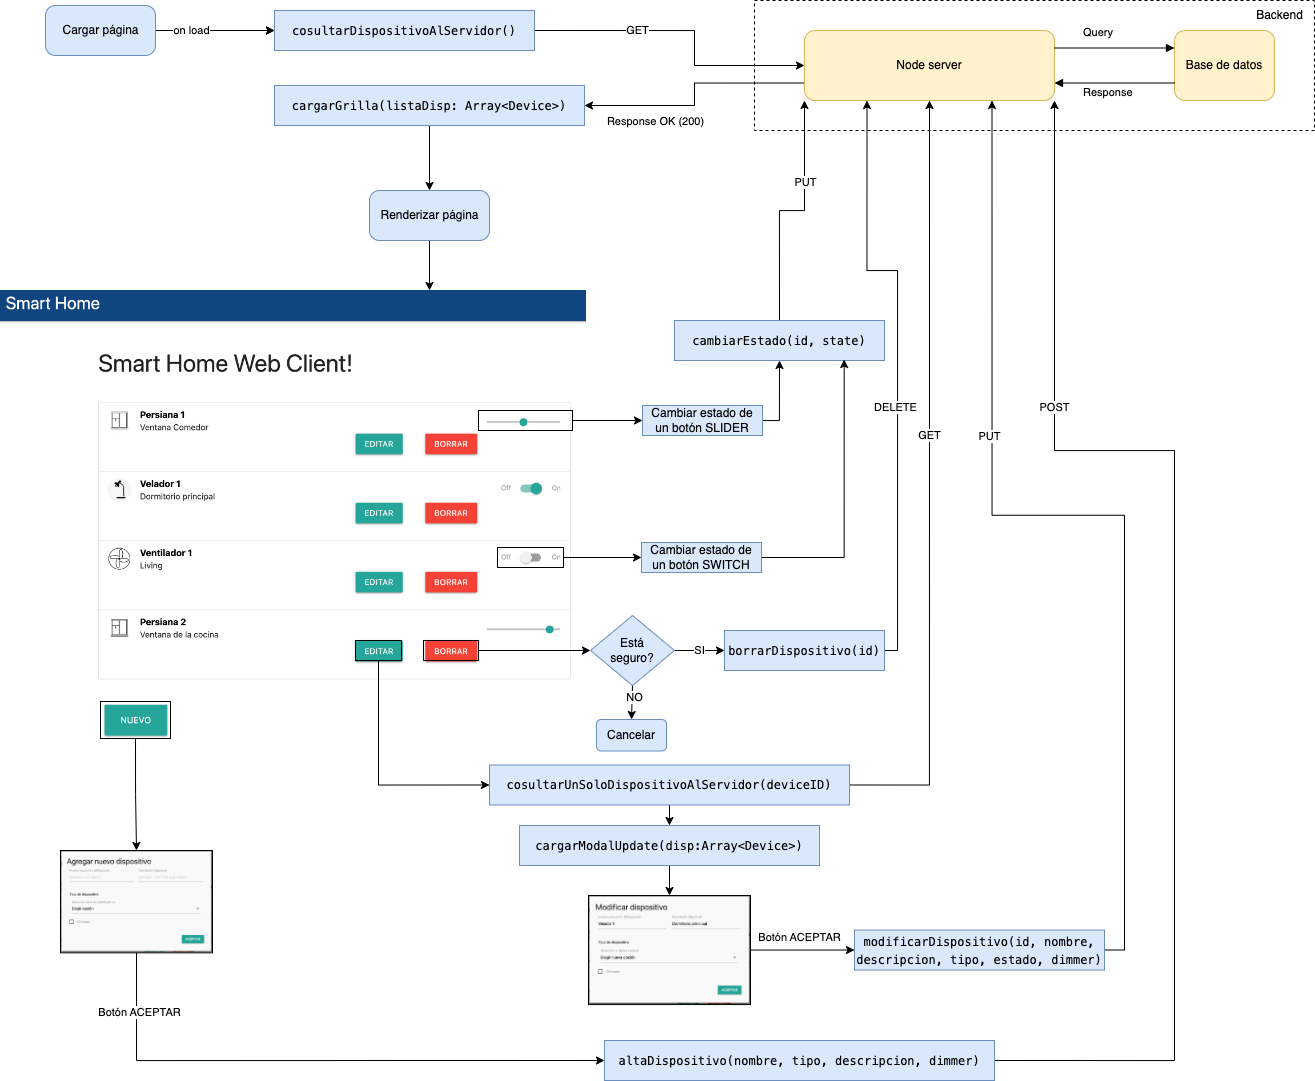
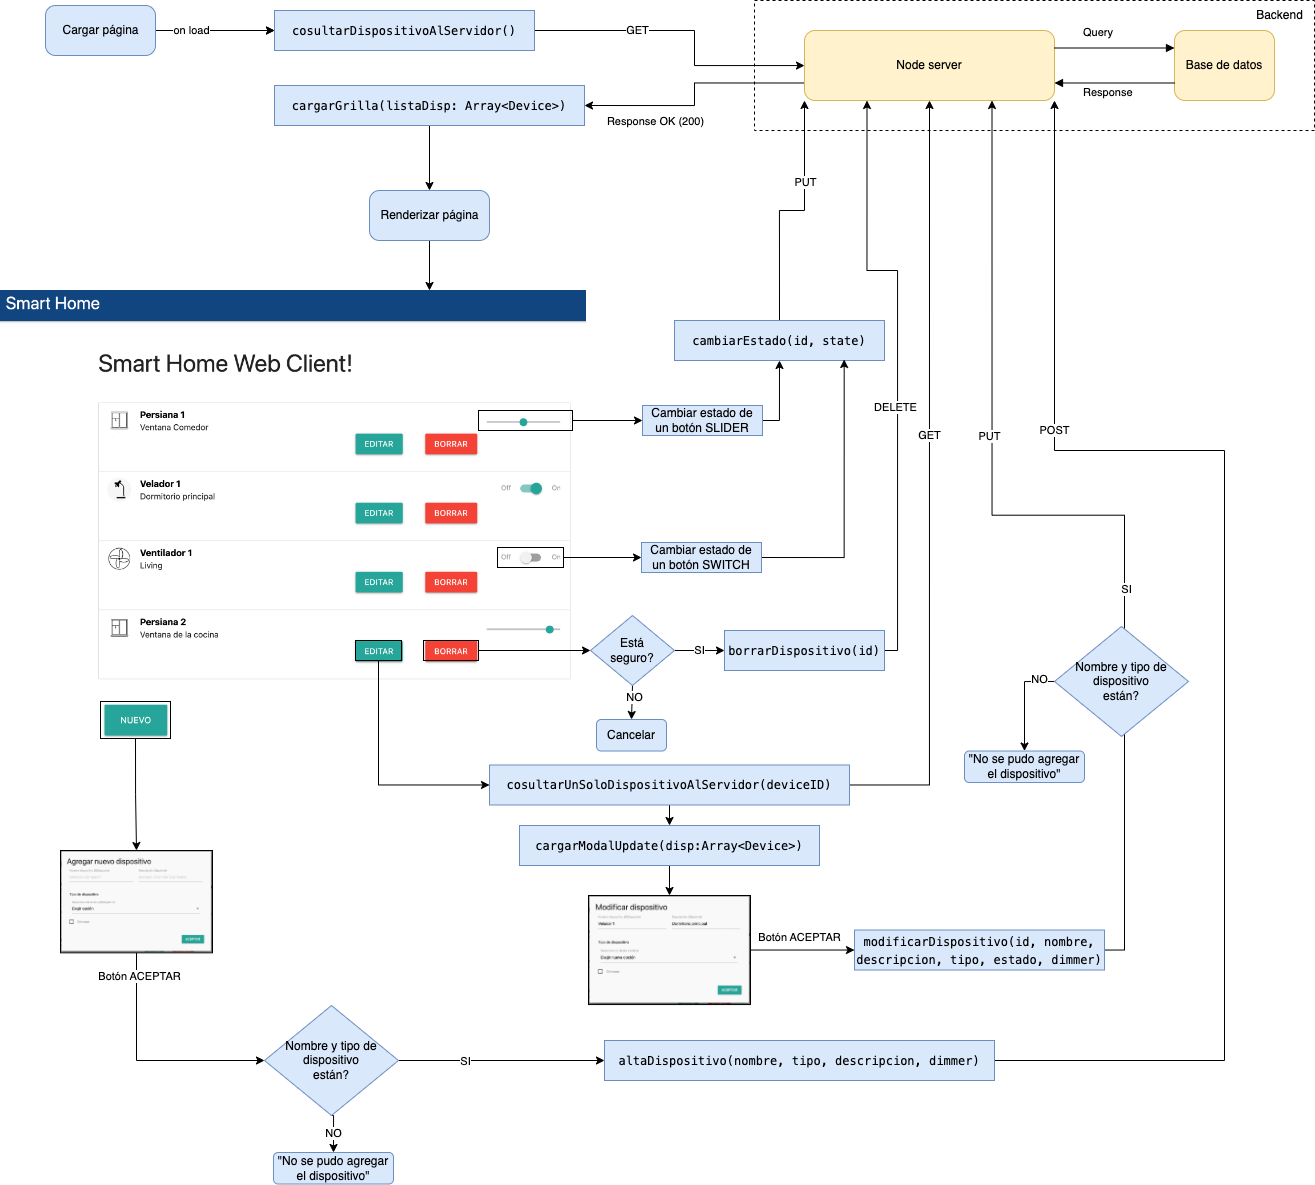
Actualizo diagrama frontend

diff --git a/README.md b/README.md
@@ -188,7 +188,9 @@ En esta sección se describen los detalles específicos de funcionamiento de la 
 ### Frontend
 
 A continuación se muestra un diagrama con los componentes del frontend e interacciones generales con el backend.
-Para el frontend se utilizaron elementos del framework Materialize (botones, modales, drop-down, etc).
+Para el frontend se utilizaron elementos del framework Materialize (botones, modales, drop-down, etc). Se creó una clase principal "Main" y distintos métodos que permiten realizar varias funciones como se muestra en el diagrama. Siempre que se realiza alguna operación (agregar un dispositivo, modificar un dispositivo, etc) se busca la información de todos los dispositivos en la base de datos y se refresca la página. 
+Se realiza una validación de los datos en los casos que se agrega o se modifica un elemento, para asegurar que el nombre y el tipo del dispositivo existen (no pueden ser nulos). También se efectúan estas validaciones en el backend.
+
 
 ![frontend](doc/frontend.png)
 
@@ -212,13 +214,13 @@ Campos de la DB:
 
 #### Endpoints disponibles:
 
-A continuación se describen las 
+A continuación se describen las APIs:
 
 1. Obtener toda la lista de dispositivos y sus características de la base de datos:
     *   URL: http://localhost:8000/devices
     *   Método: GET
     *   Body: Ninguno
-    *   Respuesta: 200 - OK, JSON con los dispositivos / 400 - error
+    *   Respuesta: 200 - OK + JSON con los dispositivos / 400 - error
 
      
         Ejemplo de respuesta (200):
@@ -263,7 +265,7 @@ A continuación se describen las
     *   URL: http://localhost:8000/buscarDispositivo/?deviceID=id
     *   Método: GET
     *   Body: Ninguno
-    *   Respuesta: 200 - OK, JSON con el dispositivo de interés / 400 - error
+    *   Respuesta: 200 - OK + JSON con el dispositivo de interés / 400 - error
 
         Ejemplo de respuesta exitosa (200):
         url: http://localhost:8000/buscarDispositivo/?deviceID=19
